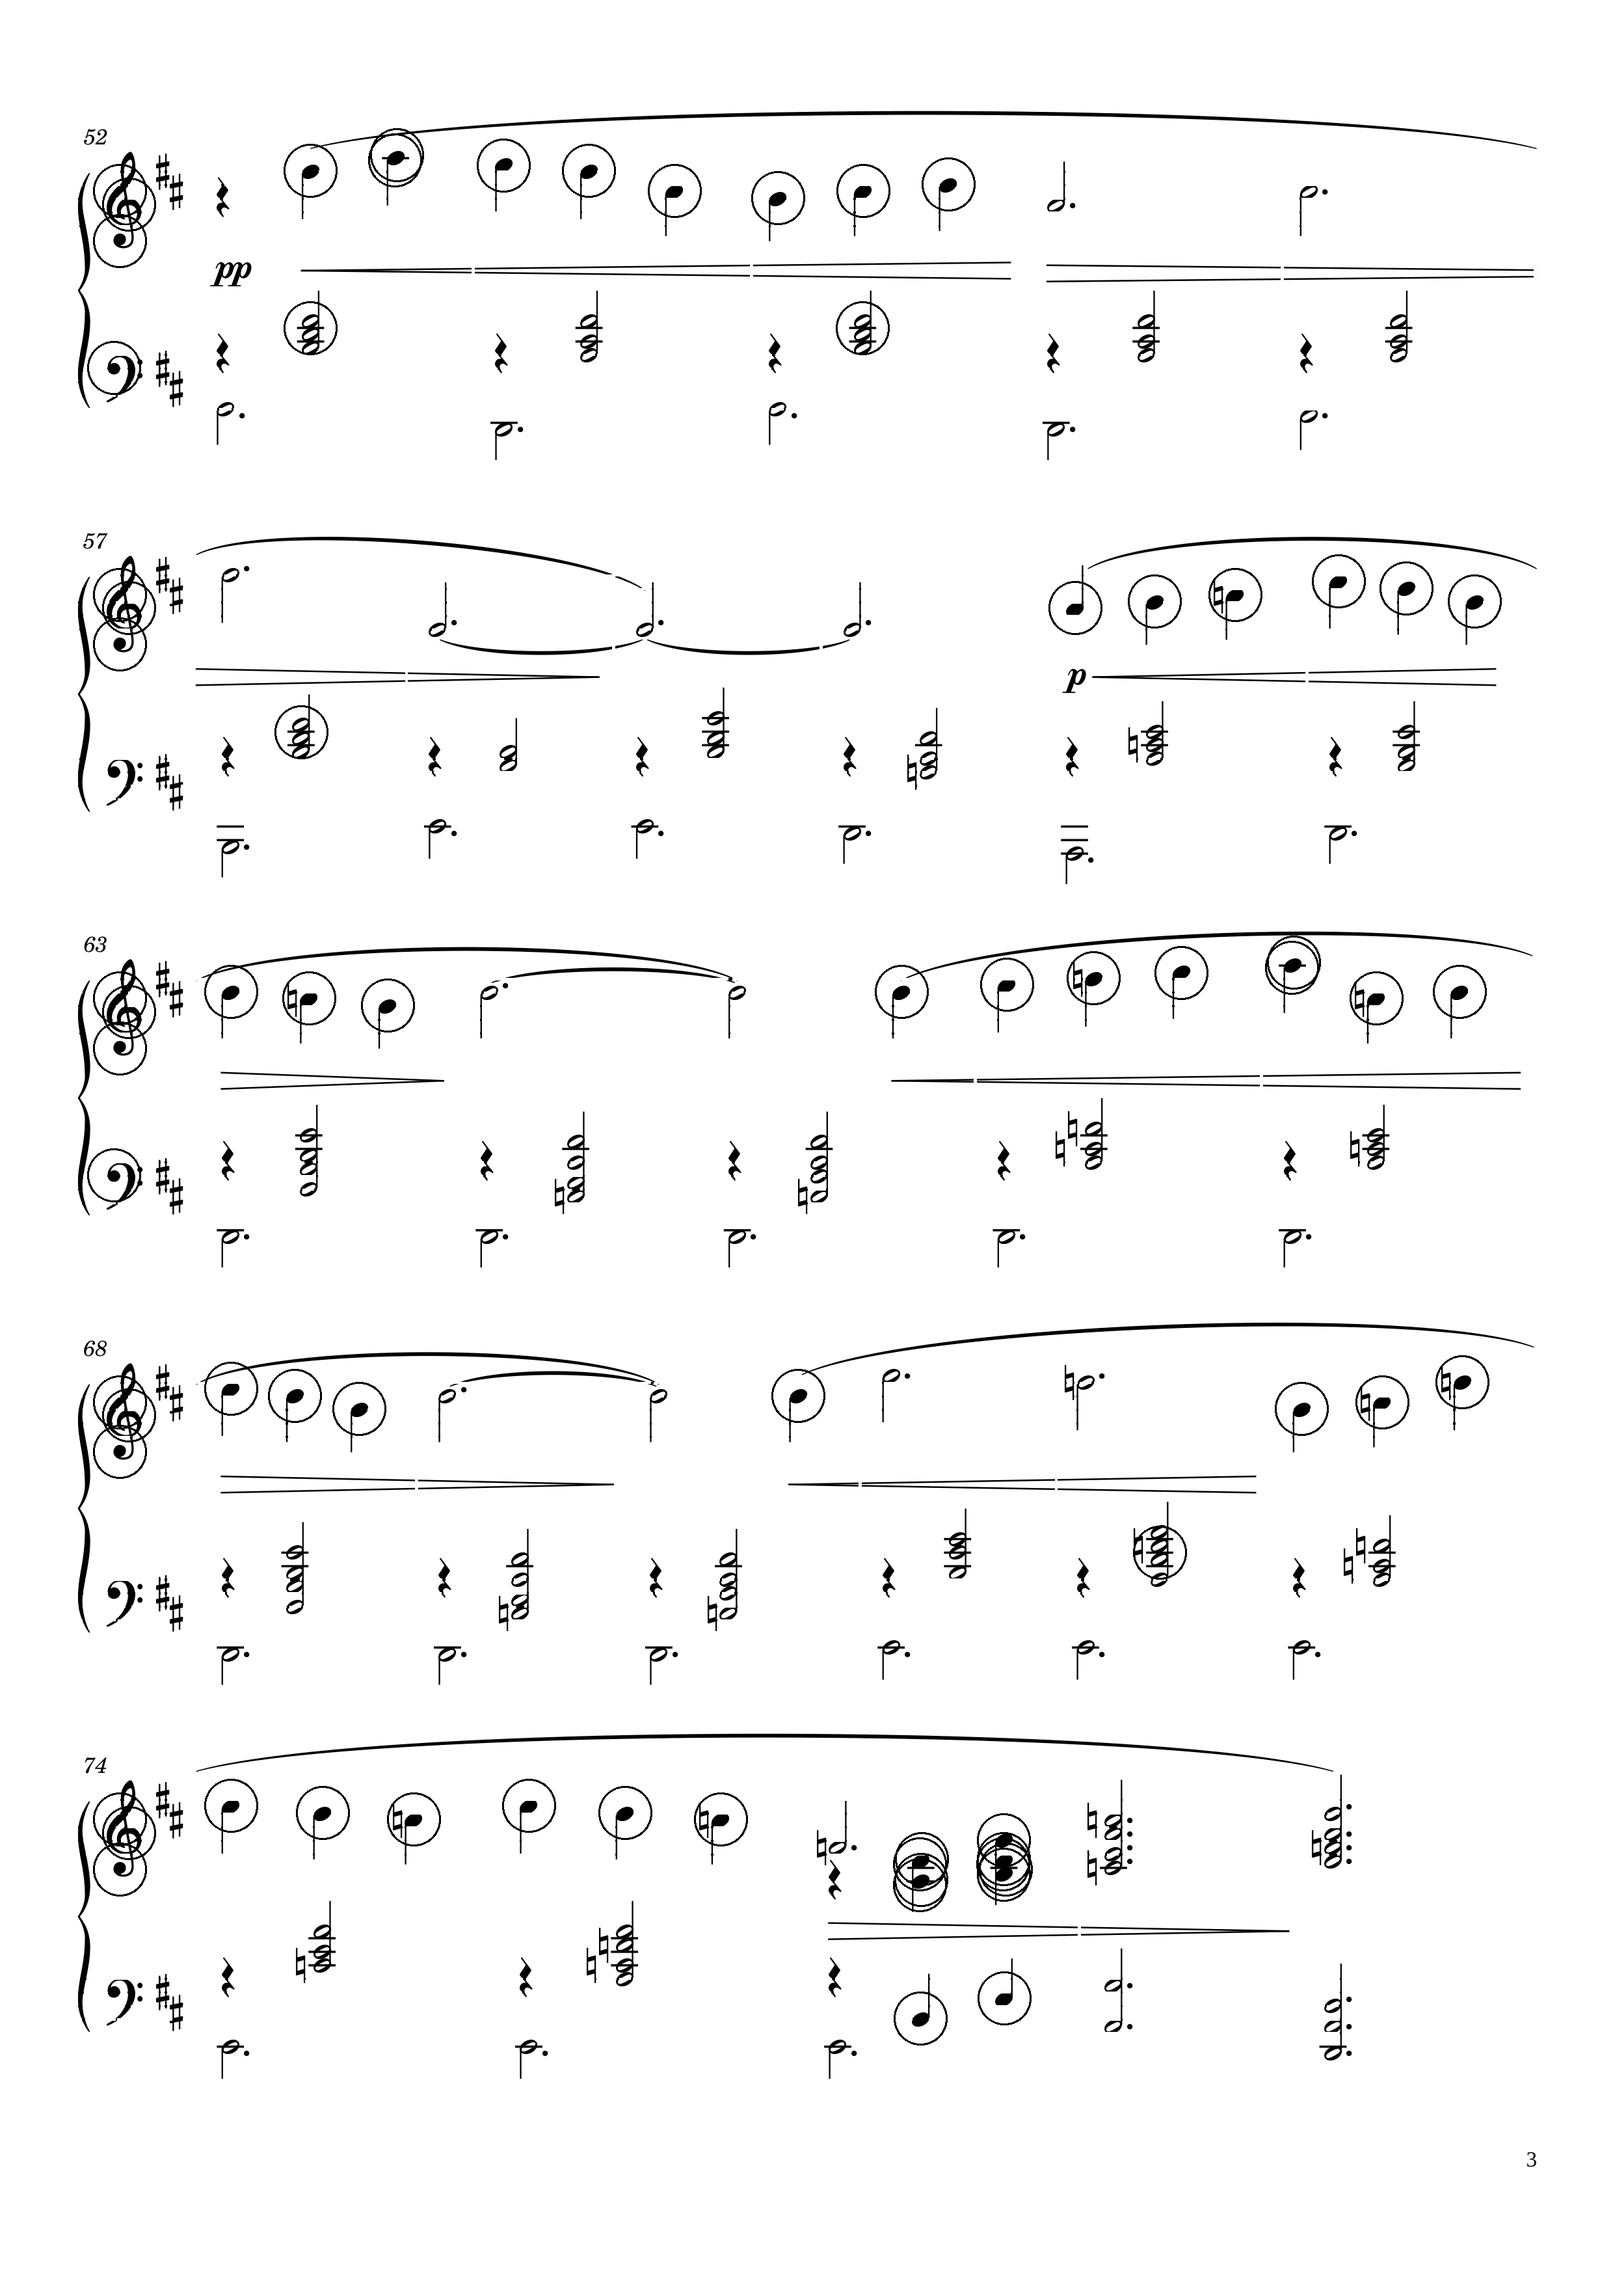
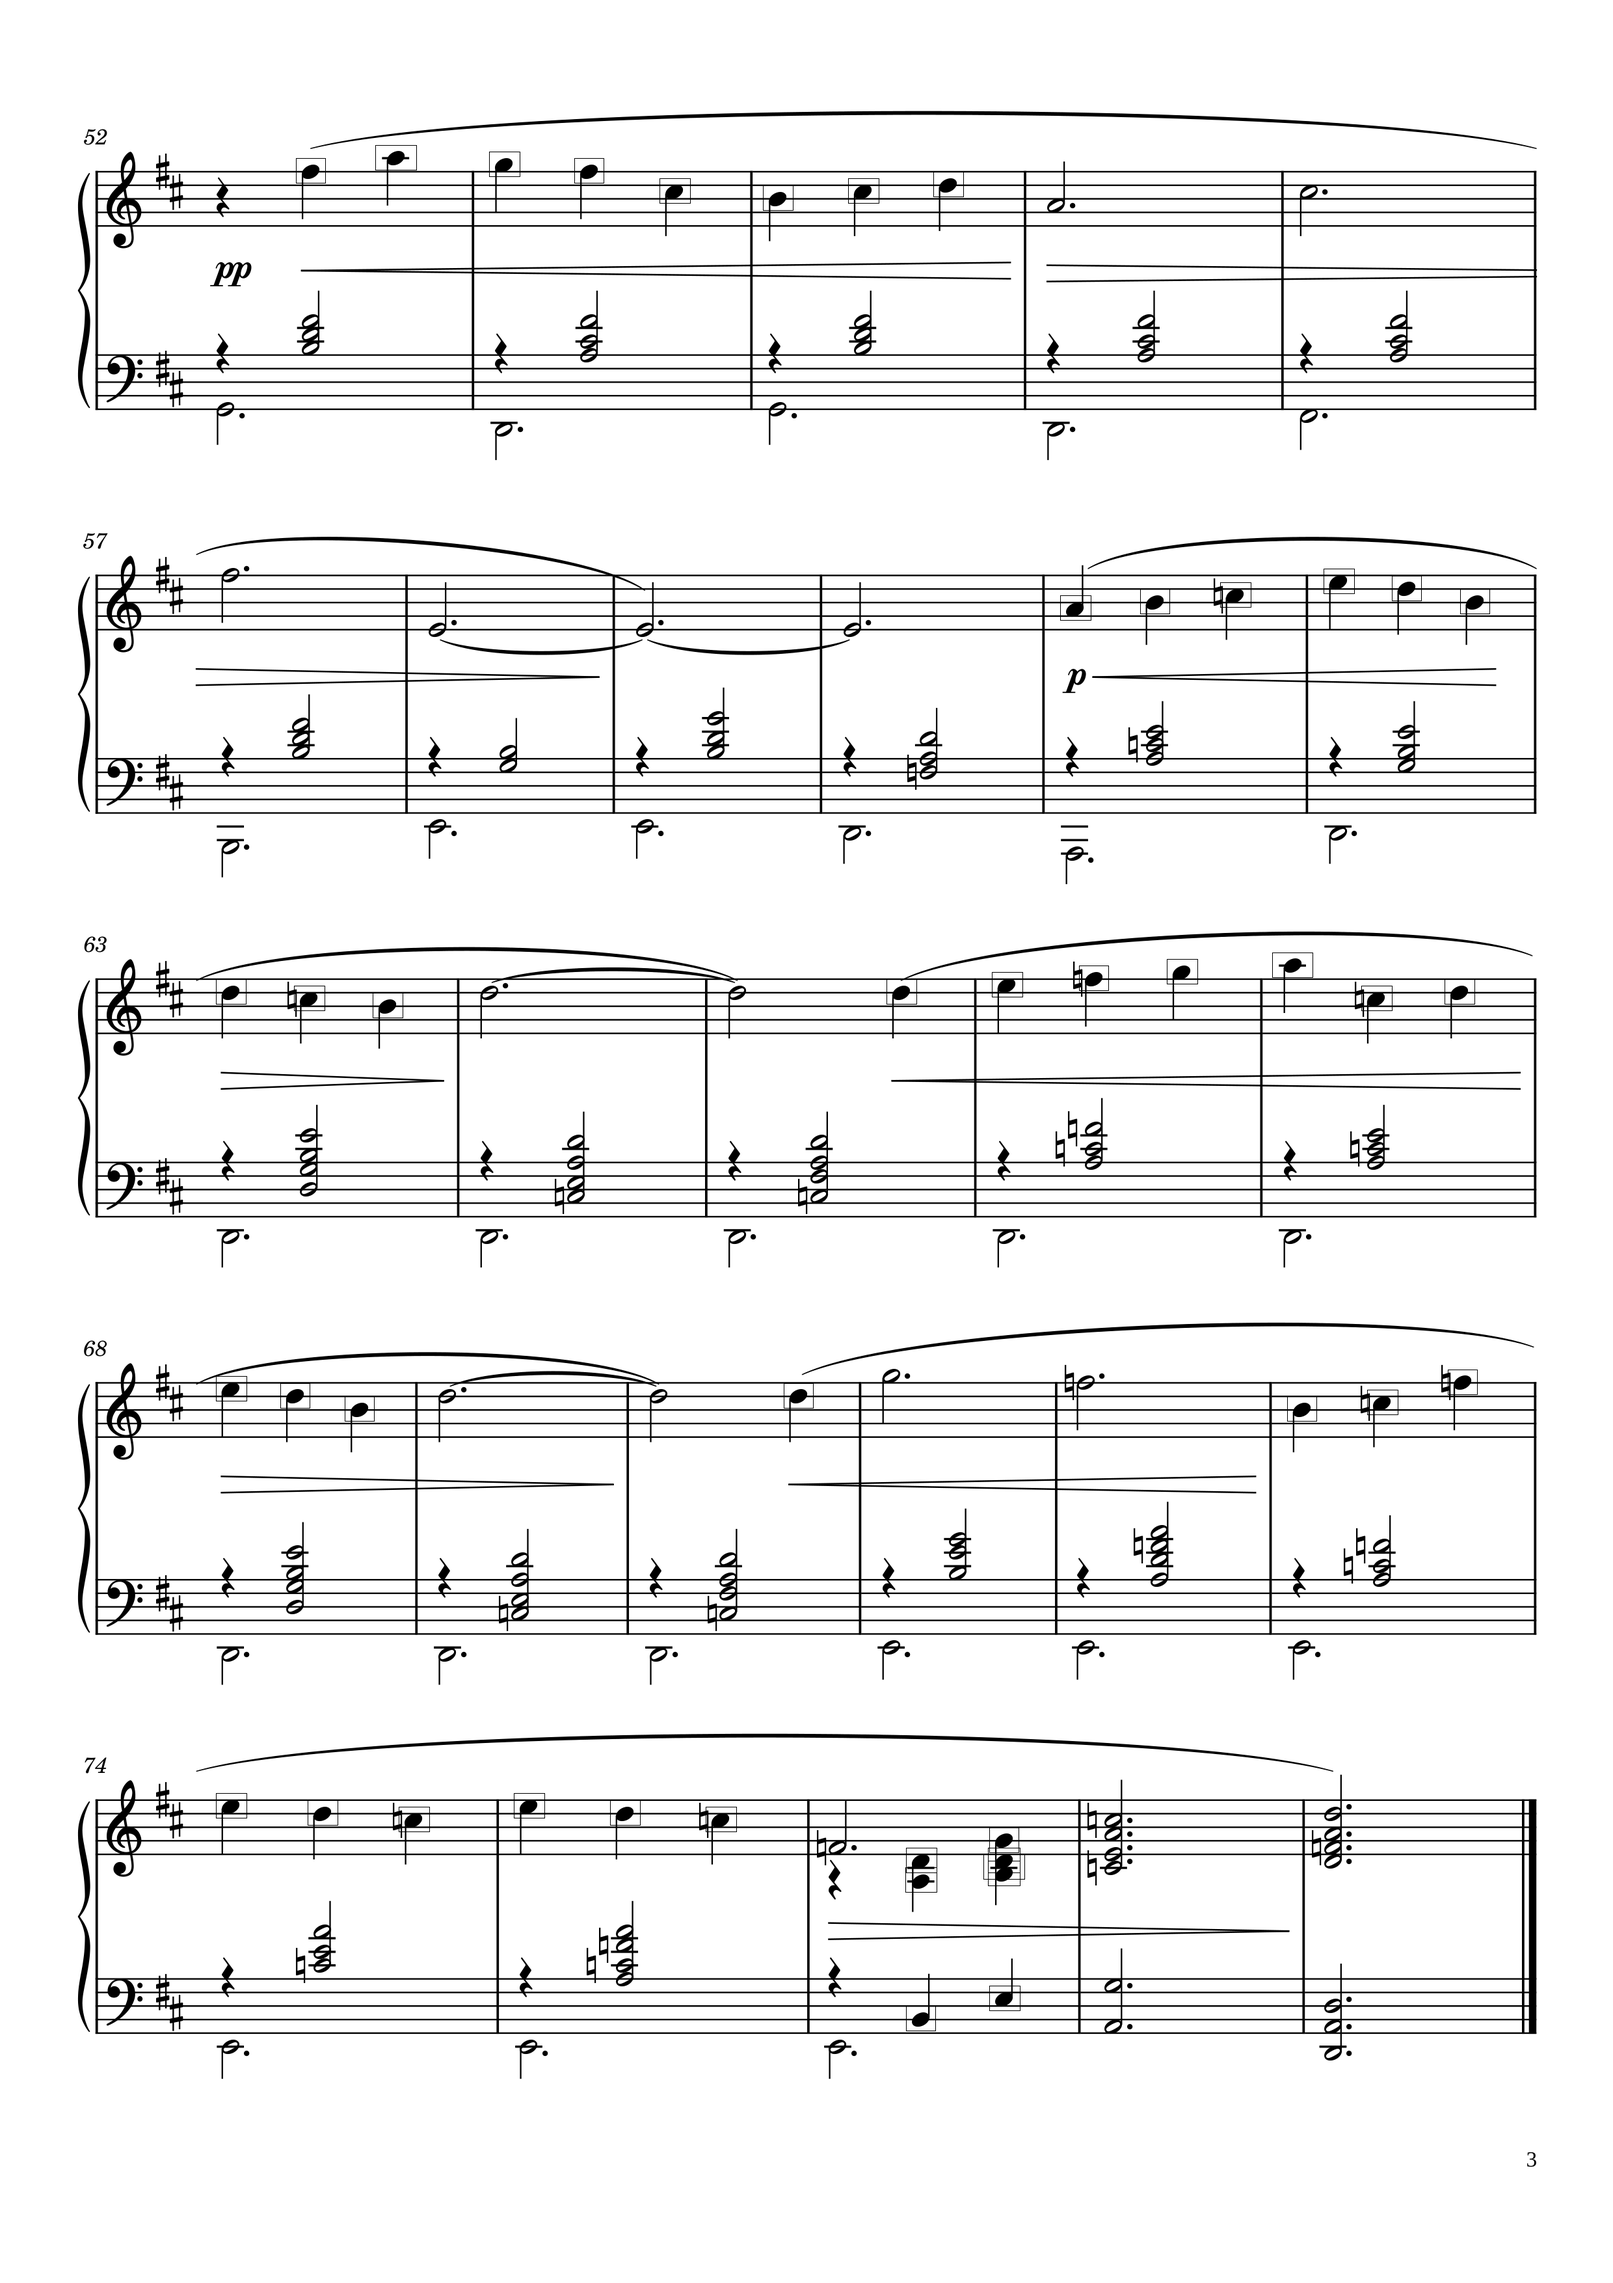
updated code

diff --git a/workingmain.py b/workingmain.py
@@ -1,5 +1,3 @@
-#make a review page for my amazing product on my website
-
 from PIL import Image, ImageDraw
 from pathlib import Path
 import fitz  # PyMuPDF
@@ -140,19 +138,13 @@ def extract_highlighted_lines_and_columns_from_image(image_path, threshold=2/3):
             left = 0
             right = img_array.shape[1]
 
-            #Black notes
-
+            #black note here
             black_count = 0
-
-            #IF IT ACTUALLY REMOVES THE LINES AND REPLACES THEM OUR A SHOULDN'T BE AN ISSUE
-            #WE HAVE TO IMPLEMENT THIS AND WORK FROM THERE CONCISING DOWN OUR CODE!!!!
             for x_index in range(width):
                 pixel = img_array[current_loop_y, x_index]
                 if pixel != 255 and x_index != width - 1:
                     black_count += 1
-                #we basically have to make sure the new blackcount when we adjust the image is less than difference_between_lines_for_line_drawing * 1.5
-                #same with when we draw any rectangle
-                elif black_count >= difference_between_lines_for_line_drawing * 1.15:
+                elif black_count >= difference_between_lines_for_line_drawing * 1.15 and black_count < difference_between_lines_for_line_drawing * 5:
                     #apply my logic to see if it is a black note
                     middle_x = x_index - round(black_count / 2)
                     #-1 to discount the current one
@@ -171,10 +163,7 @@ def extract_highlighted_lines_and_columns_from_image(image_path, threshold=2/3):
                         total_pixels = roi.size
                         non_white_pixels = np.sum(roi < 255)
                         non_white_percentage = (non_white_pixels / total_pixels) * 100
-
-
-                        #just edited this w/ difference * 1.5
-                        if non_white_percentage > 70 and black_count < difference_between_lines_for_line_drawing * 1.5:
+                        if non_white_percentage > 70:
                             draw_example_rectangle(image_path, (top_left[0] - 10, top_left[1] - 10, bottom_right[0] + 10, bottom_right[1] + 10))
                         #replace non-whitepercentage > 60 w something else like a new calculation
                         #i can calculate a new thing
@@ -195,30 +184,11 @@ def extract_highlighted_lines_and_columns_from_image(image_path, threshold=2/3):
                             new_total_pixels = new_roi.size
                             new_non_white_pixels = np.sum(new_roi < 255)
                             new_non_white_percentage = (new_non_white_pixels / new_total_pixels) * 100
-                            new_roi_width = new_roi.shape[1]
-                            if new_non_white_percentage > 80 and new_roi_width < difference_between_lines_for_line_drawing * 1.5:
+                            if new_non_white_percentage > 80:
                                 draw_example_rectangle(image_path, (top_left[0] - 10, top_left[1] - 10, bottom_right[0] + 10, bottom_right[1] + 10))
                         black_count = 0
                 else:
                     black_count = 0
-            
-
-
-
-
-
-
-
-
-
-
-            #white notes
-            #once we implement the across white secross from black to black should be this much then, we can go up and down from the middle of white_count
-            #when we're going up and down if it qualifies we can take the column that went up and down and keep moving left and right
-            #we have to make sure the last black point and top black point decreases and increases
-            #could loop 5 times or the whole thing for that matter
-            #we could also do this for the black notes but it might be excess and could be a feature i add later on!
-                    
             # Crop the image
             cropped_img = img.crop((left, top, right, bottom))
 
